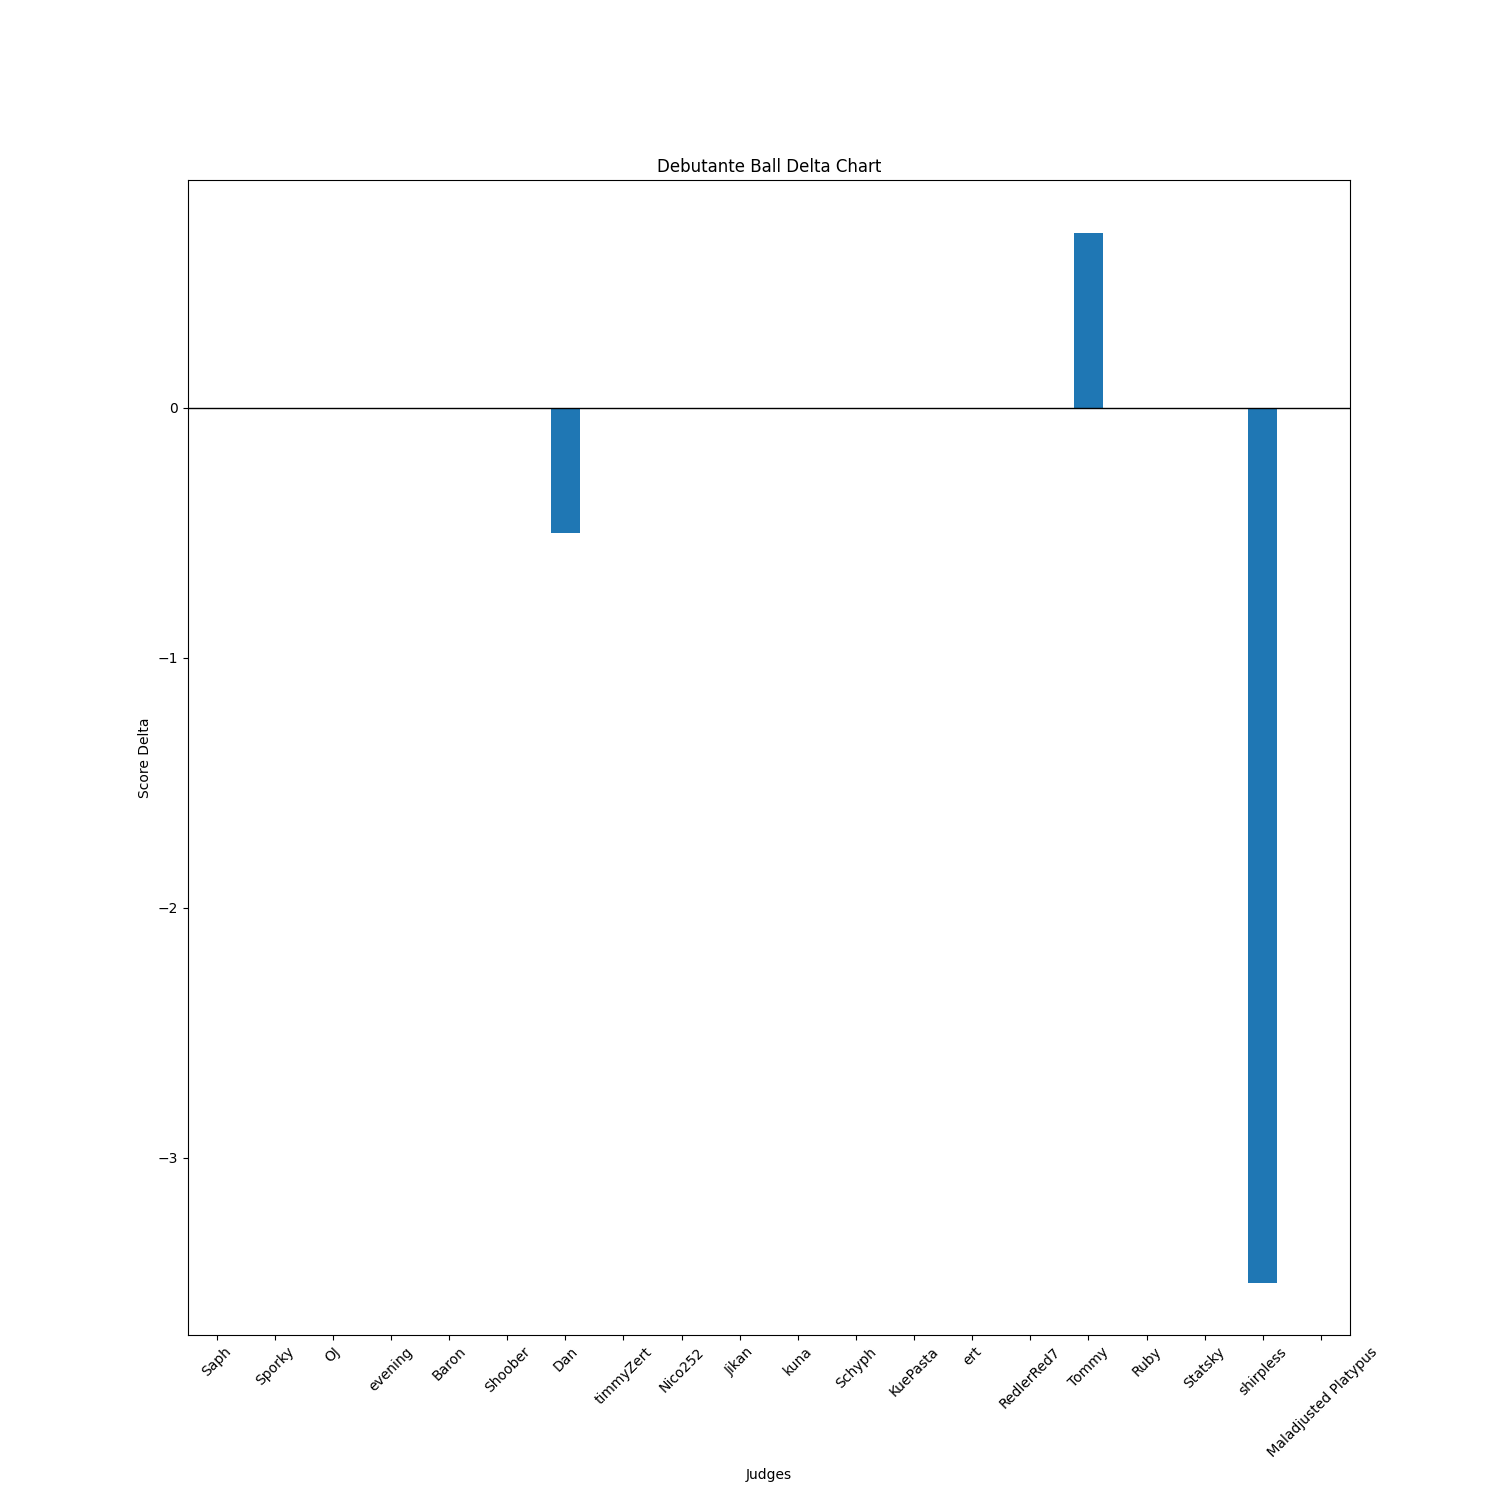
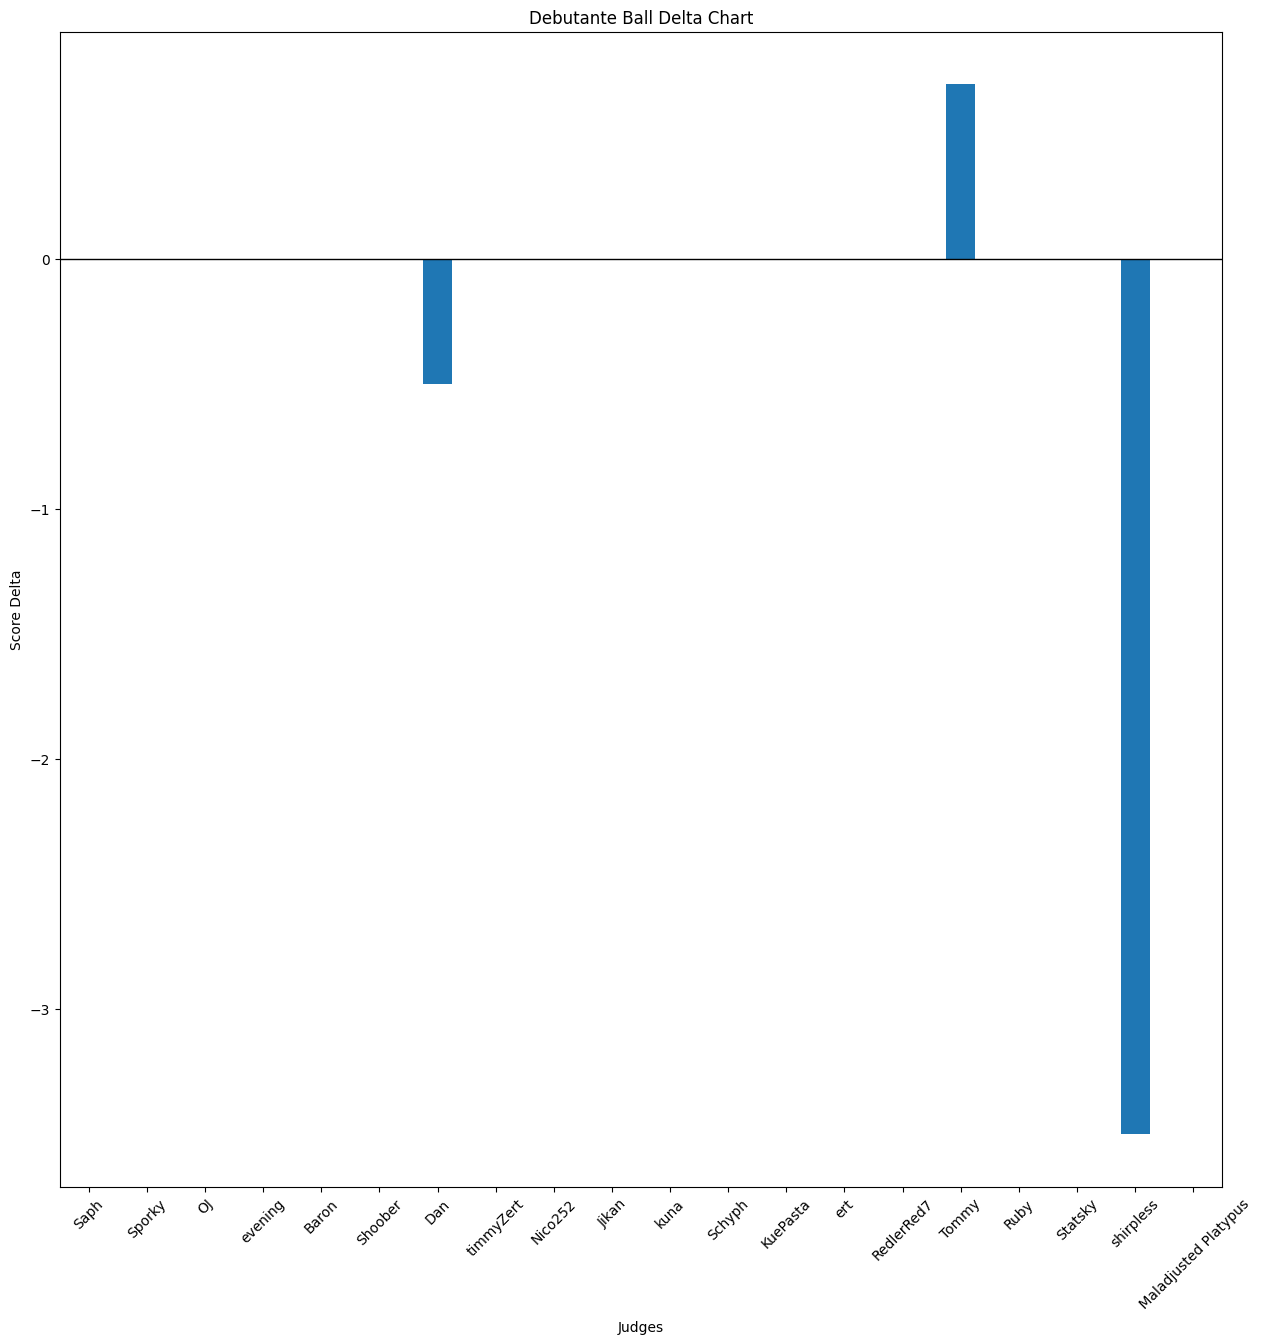
redid all images with tighter bounding box, and added guidelines for delta chart

diff --git a/specter/analyse.py b/specter/analyse.py
@@ -72,20 +72,20 @@ ax.set_xlabel('(Song, Judge)')
 ax.set_ylabel('Score')
 ax.set_title('Scores w/ regression lines')
 ax.legend()
-ax.figure.savefig('linear-plot-reg.png')
+ax.figure.savefig('linear-plot-reg.png', bbox_inches='tight')
 
 # %% histograms
 # https://pandas.pydata.org/docs/reference/api/pandas.DataFrame.hist.html
 ax = data.hist(figsize=(20, 20), sharey=True, sharex=True)
-ax[0][0].get_figure().savefig('hist-person.png')
+ax[0][0].get_figure().savefig('hist-person.png', bbox_inches='tight')
 
 # %% histogram of songs
 ax = data_songs.hist(figsize=(15, 15), sharey=True, sharex=True)
-ax[0][0].figure.savefig('hist-songs.png')
+ax[0][0].figure.savefig('hist-songs.png', bbox_inches='tight')
 
 # %% histogram of everything
 ax = data_stack.hist(figsize=(10, 10))
-ax.figure.savefig('hist-all.png')
+ax.figure.savefig('hist-all.png', bbox_inches='tight')
 
 # %% boxplots
 # https://matplotlib.org/stable/api/_as_gen/matplotlib.pyplot.boxplot.html#matplotlib.pyplot.boxplot
@@ -95,7 +95,7 @@ ax.set_title('RC Server \'Specter\' Album Score Boxplots')
 ax.set_ylabel('Scores')
 ax.set_xlabel('Judges')
 ax.legend()
-ax.figure.savefig('box-person.png')
+ax.figure.savefig('box-person.png', bbox_inches='tight')
 
 # # %%
 # ax = data.boxplot(figsize=(15, 15), return_type='axes', rot=45, showmeans=True, whis=(0, 100))
@@ -110,14 +110,14 @@ ax = data_songs.boxplot(figsize=(15, 15), return_type='axes', rot=45, showmeans=
 ax.set_title('RC Server \'Specter\' Song Score Boxplots')
 ax.set_ylabel('Scores')
 ax.set_xlabel('Songs')
-ax.figure.savefig('box-songs.png')
+ax.figure.savefig('box-songs.png', bbox_inches='tight')
 
 # %% stacked data boxplot
 ax = data_stack.to_frame().boxplot(figsize=(15, 15), return_type='axes', showmeans=True)
 ax.set_title('RC Server \'Specter\' Entire Dataset Boxplot')
 ax.set_ylabel('Score')
 ax.set_xlabel('Dataset')
-ax.figure.savefig('box-all.png')
+ax.figure.savefig('box-all.png', bbox_inches='tight')
 
 # %% description boxplots
 ddtp = data_description.transpose()
@@ -126,7 +126,7 @@ ax = ddtp.boxplot(figsize=(15, 15), return_type='axes', rot=45, showmeans=True)
 ax.set_title('RC Server \'Specter\' Data Description Boxplots')
 ax.set_ylabel('Scores')
 ax.set_xlabel('Metrics')
-ax.figure.savefig('box-desc-person.png')
+ax.figure.savefig('box-desc-person.png', bbox_inches='tight')
 
 # # %% description normal plots with labels
 # ax = ddtp.plot.line(figsize=(15, 15), rot=45)
@@ -141,7 +141,7 @@ ax = dsdtp.boxplot(figsize=(15, 15), return_type='axes', rot=45, showmeans=True)
 ax.set_title('RC Server \'Specter\' Data Song Description Boxplots')
 ax.set_ylabel('Scores')
 ax.set_xlabel('Metrics')
-ax.figure.savefig('box-desc-songs.png')
+ax.figure.savefig('box-desc-songs.png', bbox_inches='tight')
 
 # %% Load old data
 data_old = p.read_csv('specter-preRC.csv', index_col="Song")
@@ -158,7 +158,7 @@ ax.set_title('Michizure Score Comparison')
 ax.set_ylabel('Scores')
 ax.set_xlabel('Judges')
 ax.legend()
-ax.figure.savefig('michi-comparison.png')
+ax.figure.savefig('michi-comparison.png', bbox_inches='tight')
 # %% Michi Delta
 michi = data.loc['Michizure'].rename('m')
 michi_old = data_old.loc['Michizure'].rename('mp')
@@ -171,7 +171,7 @@ ax.hlines(0, -1, len(combined), colors=['black'], linestyles='-', linewidth=1)
 ax.set_title('Michizure Delta Chart')
 ax.set_ylabel('Score Delta')
 ax.set_xlabel('Judges')
-ax.figure.savefig('michi-delta.png')
+ax.figure.savefig('michi-delta.png', bbox_inches='tight')
 
 # %% DB before/after comparison
 db = data.loc['debutante ball']
@@ -183,7 +183,7 @@ ax = combined.plot(figsize=(15, 15), kind='bar', rot=45)
 ax.set_title('Debutante Ball Score Comparison')
 ax.set_ylabel('Scores')
 ax.set_xlabel('Judges')
-ax.figure.savefig('db-comparison.png')
+ax.figure.savefig('db-comparison.png', bbox_inches='tight')
 
 # %% DB Delta
 db = data.loc['debutante ball'].rename('db')
@@ -197,7 +197,7 @@ ax.hlines(0, -1, len(combined), colors=['black'], linestyles='-', linewidth=1)
 ax.set_title('Debutante Ball Delta Chart')
 ax.set_ylabel('Score Delta')
 ax.set_xlabel('Judges')
-ax.figure.savefig('db-delta.png')
+ax.figure.savefig('db-delta.png', bbox_inches='tight')
 
 # %% Generate Delta for all songs/people
 # data_stack exists, now just have to do data_stack all
@@ -212,15 +212,16 @@ ax = con_stack_filtered.plot(figsize=(15, 15), kind='barh')
 ax.set_title('All New Score Comparison')
 ax.set_ylabel('Scores')
 ax.set_xlabel('Judges')
-ax.figure.savefig('all-comparison.png')
+ax.figure.savefig('all-comparison.png', bbox_inches='tight')
 
 # %% All Delta
 con_stack_delta = (con_stack_filtered['Current Score'] - con_stack_filtered['Old Score'])
 ax = con_stack_delta.plot(figsize=(15, 15), kind='barh', legend=False)
-ax.vlines(0, -1, len(con_stack_filtered), colors=['black'], linestyles='-', linewidth=1)
+for i in np.arange(-3.5, 2, 0.5):
+    ax.vlines(i, -1, len(con_stack_filtered), colors=['black'], linestyles=('-' if i==0 else '--'), linewidth=1)
 ax.set_title('All Delta Chart')
 ax.set_ylabel('Score Delta')
 ax.set_xlabel('Judges')
-ax.figure.savefig('all-delta.png')
+ax.figure.savefig('all-delta.png', bbox_inches='tight')
 
 # %%
